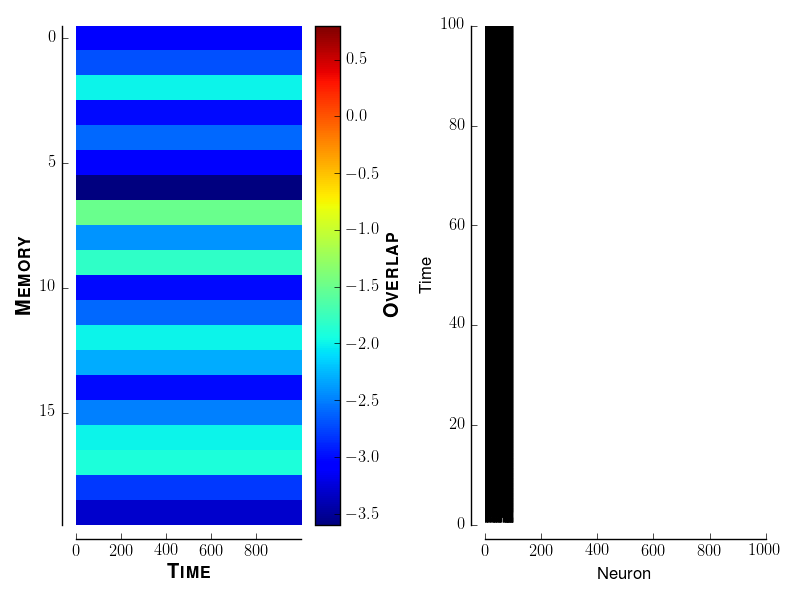
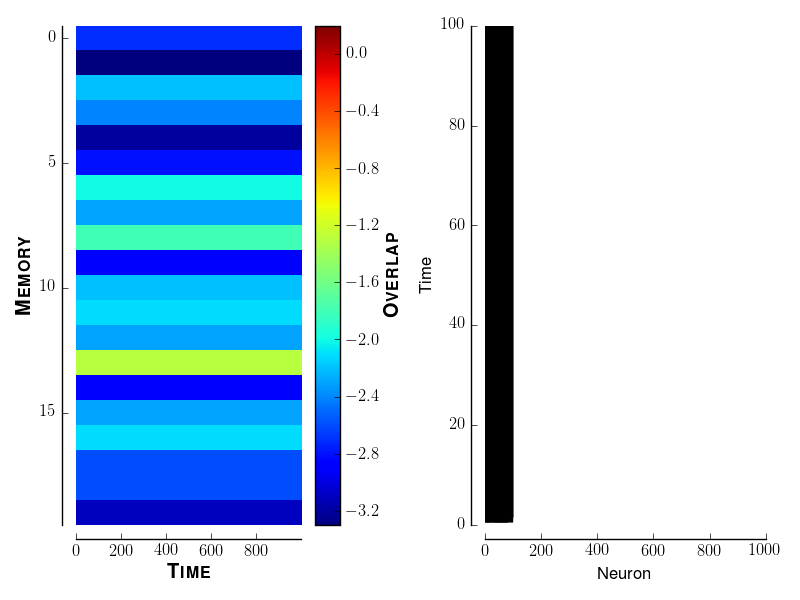
update

diff --git a/Graphics.py b/Graphics.py
@@ -31,11 +31,44 @@ def adjust_spines(ax,spines=['left','bottom']):
 def raster(activity, ax, color='k'):
     
     units,duration = activity.shape
-    for ith, trial in enumerate(activity.T):
+    for ith, trial in enumerate(activity):
         ax.vlines(np.where(trial==1)[0], ith + .5, ith + 1.5, color=color)
     ax.set_ylim(ymin=0,ymax=units)
     ax.set_xlim(xmin=0,xmax=duration)
     return ax
+
+def hopfield_network_activity(overlap,r,memories,moniker='x'):
+    gs = gridspec.GridSpec(1, 4, width_ratios=[5,1,5,1])
+
+    memory_overlap = plt.subplot(gs[0])
+    cax = memory_overlap.imshow(overlap,interpolation='nearest',aspect='auto',vmin=-1,vmax=1)
+    adjust_spines(memory_overlap)
+    memory_overlap.set_xlabel(format('Time'))
+    memory_overlap.set_ylabel(format('Memory'))
+    cbar = plt.colorbar(cax)
+    cbar.set_ticks([-1,-0.5,0,0.5,1])
+    cbar.set_label(format('Overlap'))
+
+    beginning_memory_overlap = plt.subplot(gs[1])
+    beginning_memory_overlap.imshow(overlap[:,0][:,np.newaxis],interpolation='nearest',vmin=-1,vmax=1)
+    adjust_spines(beginning_memory_overlap,[])
+
+    rax = plt.subplot(gs[2])
+    raster(r,rax)
+    adjust_spines(rax)
+    rax.spines['bottom'].set_smart_bounds(False)
+    rax.set_xlabel(format('Time'))
+    rax.set_ylabel(format('Neuron'))
+
+    ending_memory_overlap = plt.subplot(gs[3])
+    ending_memory_overlap.imshow(overlap[:,-1][:,np.newaxis],interpolation='nearest',
+        vmin=-1,vmax=1)
+    adjust_spines(ending_memory_overlap,[])
+
+    plt.tight_layout()
+    plt.show()
+
+
 
 def network_activity(overlap,r,moniker='x',hopfield=False):
     fig = plt.figure()

diff --git a/hopfield-network.py b/hopfield-network.py
@@ -1,4 +1,5 @@
 import numpy as np 
+import random
 import Graphics as artist
 
 def make_memories(nmem=20,nunits=100,sparsity=0.25):
@@ -10,7 +11,7 @@ def make_memories(nmem=20,nunits=100,sparsity=0.25):
 def sgn(arr):
 	arr[arr>=0] = 1
 	arr[arr<0] = -1
-	return arr
+	return arr.astype(int)
 
 def make_M(memories):
     M = np.array([np.outer(memory,memory) for memory in memories]).sum(axis=0)
@@ -30,24 +31,26 @@ def overlap(u,v):
 	if u.shape == v.shape:
 		return u.dot(v)/float(len(v))
 
-
 duration = 1000
 nunits = 100
-nmem=20
+nmem=10
 memories = make_memories(nmem=nmem,nunits=nunits)
 M = make_M(memories)
 r = np.zeros((nunits,duration),dtype=int)
 
 #artist.connection_matrix_and_memory(memories,M,moniker='hopfield')
 
-
 #Initial conditions 
 mixing_fraction = 0.5 
-r[:,0] = 2*np.round(np.random.random_sample(size=(nunits,))).astype(int)-1
-
+#r[:,0] = 2*np.round(np.random.random_sample(size=(nunits,))).astype(int)-1
+r[:,0] = memories[1,:]
 for t in xrange(1,duration):
-	r[:,t] = sgn(M.dot(r[:,t-1]))
+	#Asynchronous updating
+	r[:,t] = r[:,t-1]
 
-overlap = np.array([memory.dot(r)/float(nmem) for memory in memories])
+	idx = random.choice(xrange(nunits))
+	r[idx,t] = 1 if M[idx,:].dot(r[:,t-1]) >= 0 else -1
 
-artist.network_activity(overlap,r,moniker='hopfield',hopfield=True)
+overlap = np.array([memory.dot(r)/float(nunits) for memory in memories])
+
+artist.hopfield_network_activity(overlap,r,memories,moniker='hopfield')
